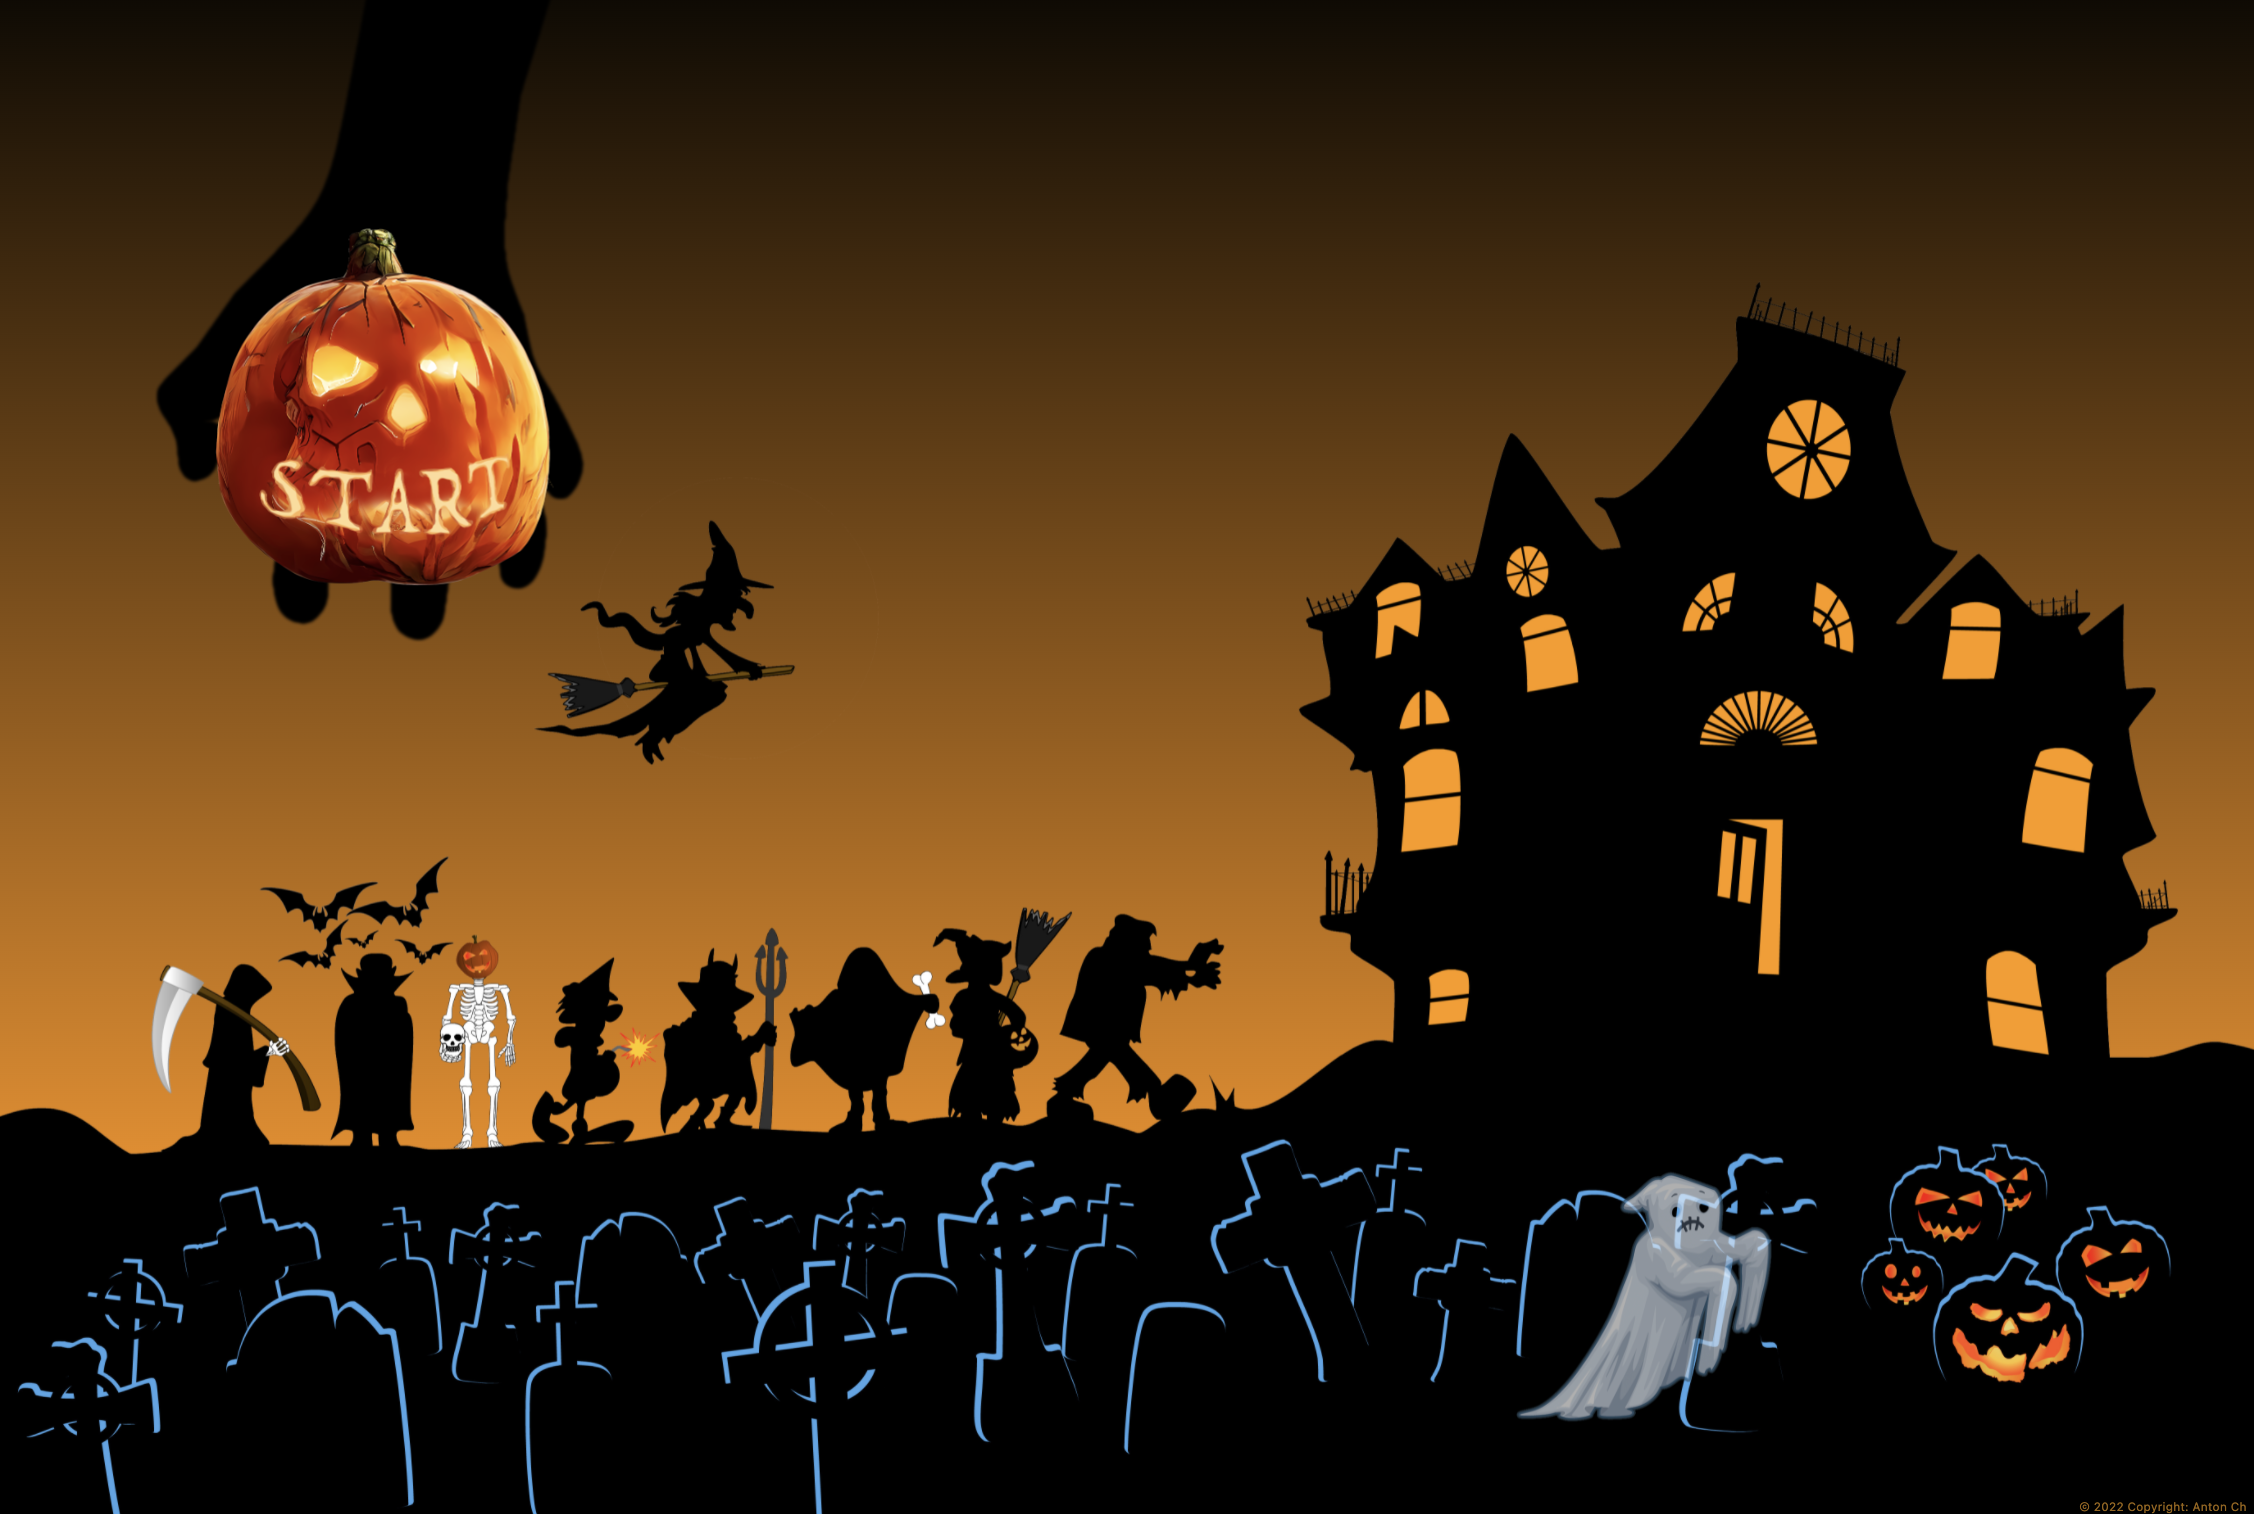
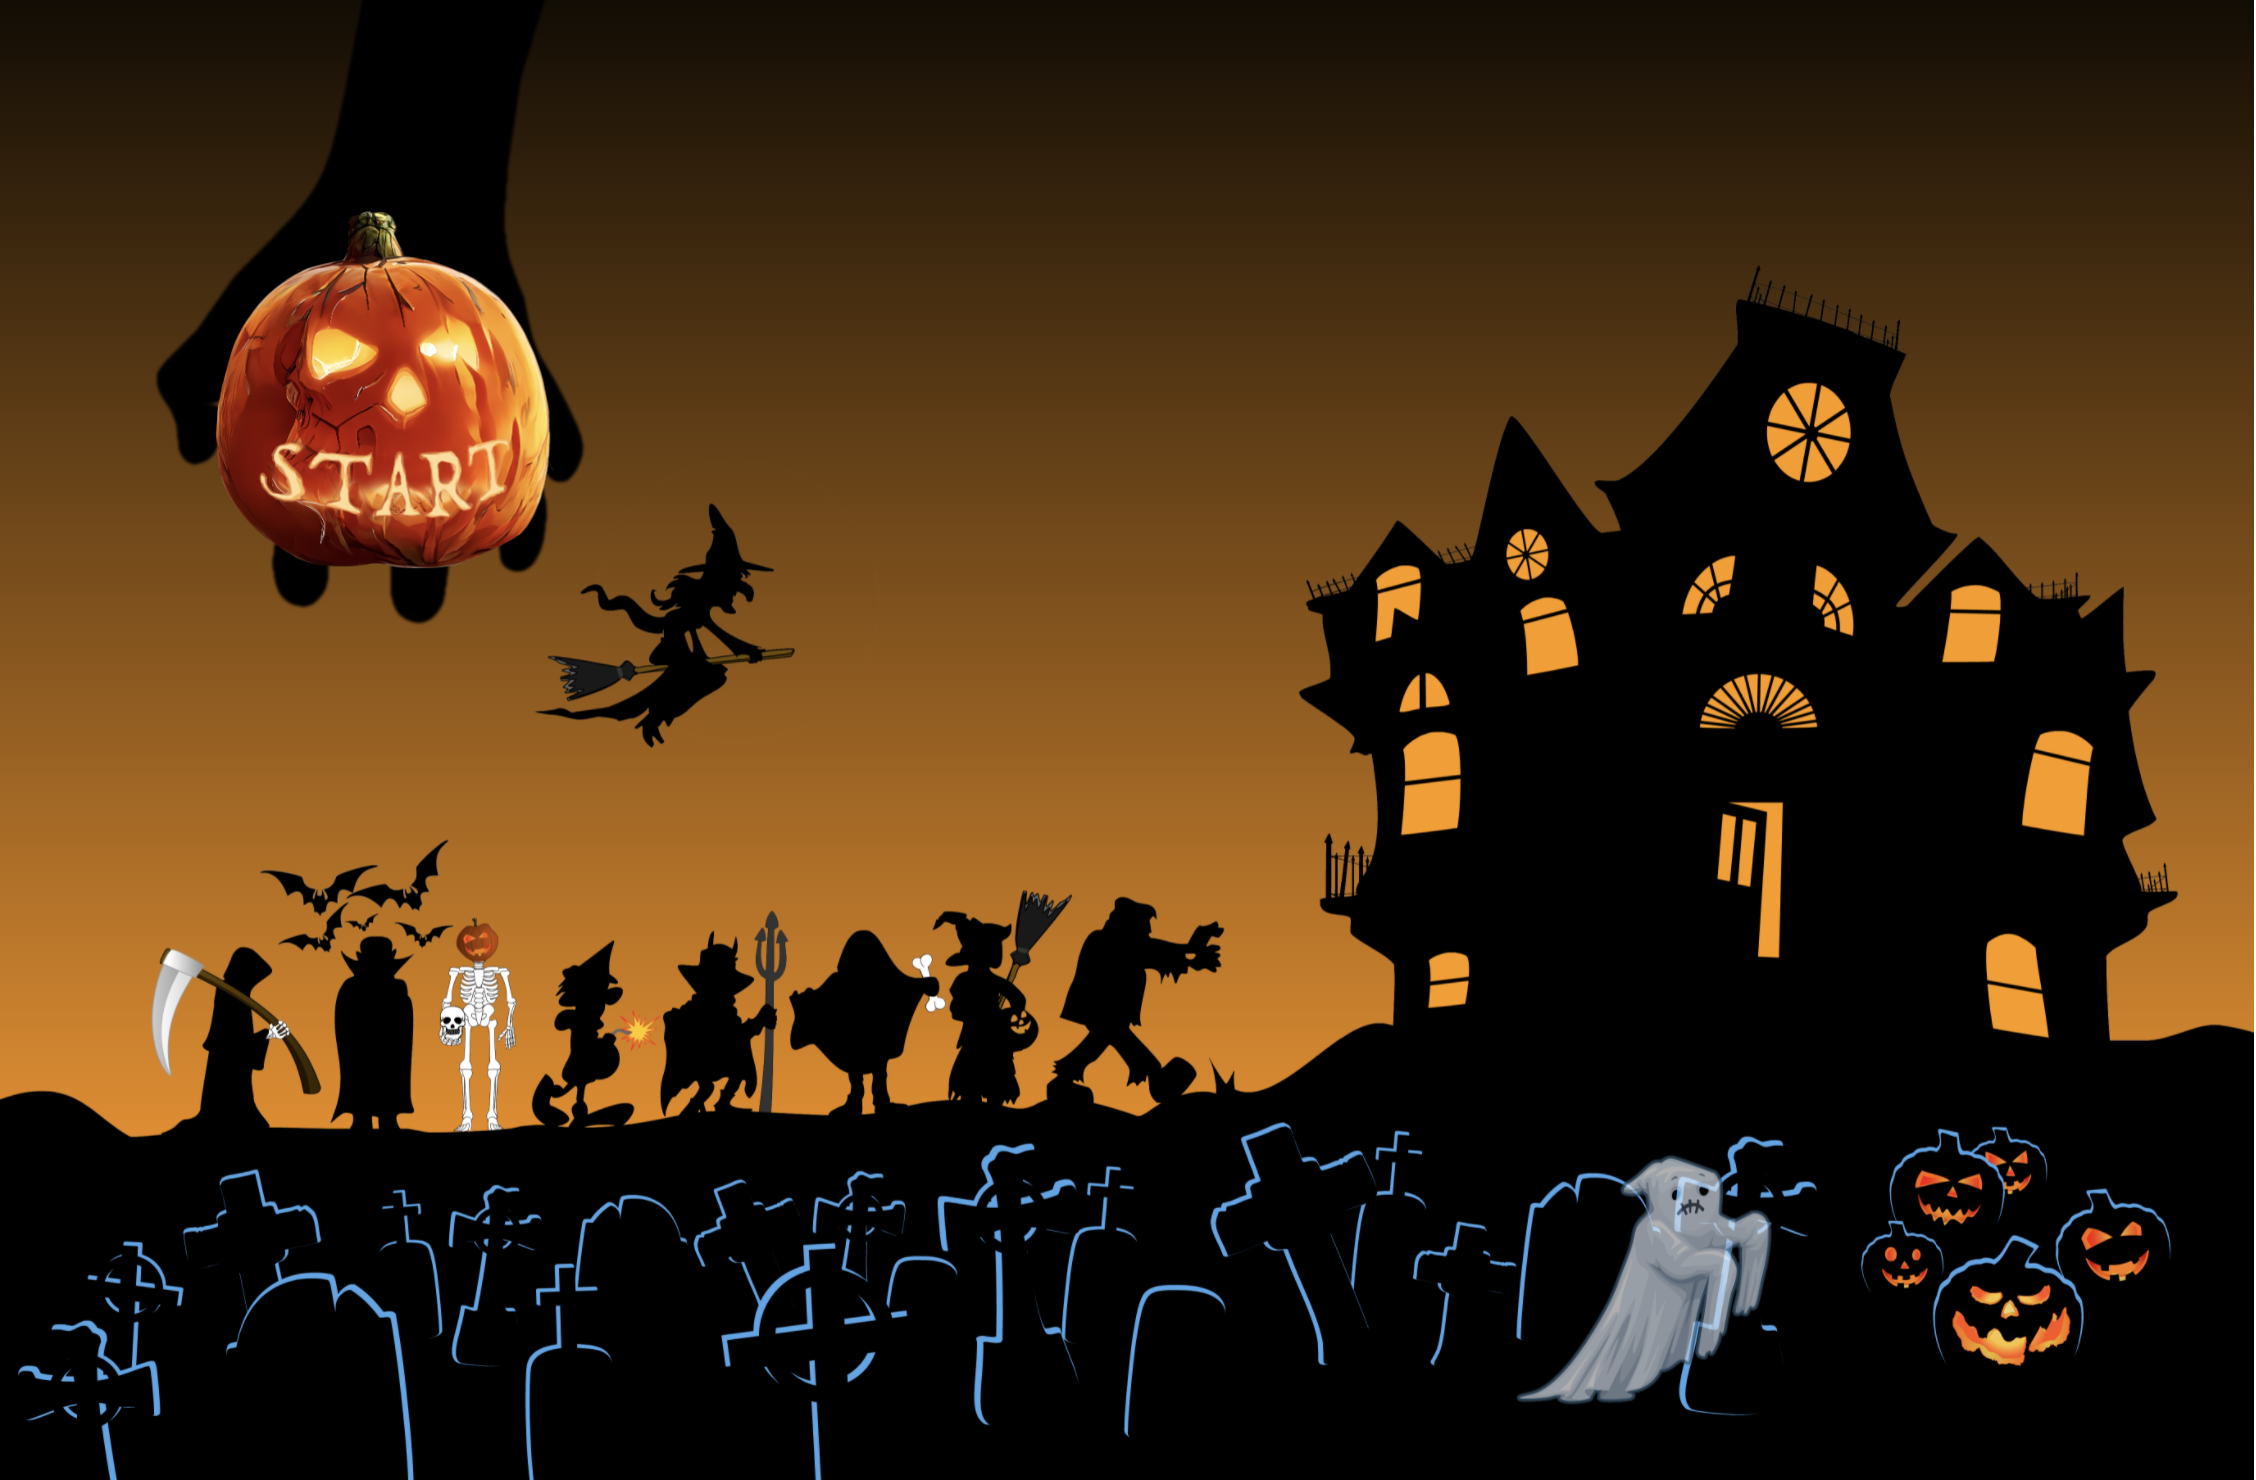
resize project images

diff --git a/src/components/Project.js b/src/components/Project.js
@@ -8,15 +8,15 @@ function Project(props) {
       <div className="card card-s animate__animated animate__headShake">
         <div className="card-body">
           <h3 className="card-title text-center"><a href={props.deployedLink} target="_blank" rel="noreferrer">{props.projectName}</a></h3>
-          <a href={props.deployedLink} target="_blank" rel="noreferrer"> <img className="card-img ci1" src={props.img} onMouseOver={e => (e.currentTarget.src = props.imgGit)} onMouseOut={e => (e.currentTarget.src = props.img)} border="0" alt={props.imgAlt} /></a>
+          <a href={props.deployedLink} target="_blank" rel="noreferrer"> <img className="card-img ci" src={props.img} onMouseOver={e => (e.currentTarget.src = props.imgGit)} onMouseOut={e => (e.currentTarget.src = props.img)} border="0" alt={props.imgAlt} /></a>
           <h5 className="card-text">Description:</h5>
           <p className="card-text">{props.description}</p>
           <h5 className="card-text">Technologies Used:</h5>
-          <ol className="card-text">
+          <ul className="card-text">
           {props.technologies.map((technology, i) => {   
             return (<li key={i}><a href={technology.link} target="_blank" rel="noreferrer">{technology.name}</a></li>) 
           })}
-          </ol>
+          </ul>
           <p className="card-footer text-center"><a href={props.gitRepo} target="_blank" rel="noreferrer">github repository</a></p>
         </div>
       </div>

diff --git a/src/index.css b/src/index.css
@@ -157,10 +157,17 @@ a:hover{
 @media only screen and (min-width: 768px) {
 
   .card-img {
-    /* height: 22vw;
-    max-height: 300px; */
     border: 2px solid purple;
     padding: 2px;
+  }
+
+  .ci{
+    display: block;
+    box-sizing: border-box;
+    width: 320px !important;
+    height: 212px;
+    margin: auto;
+    object-fit: scale-down;
   }
 
   .card-s {
